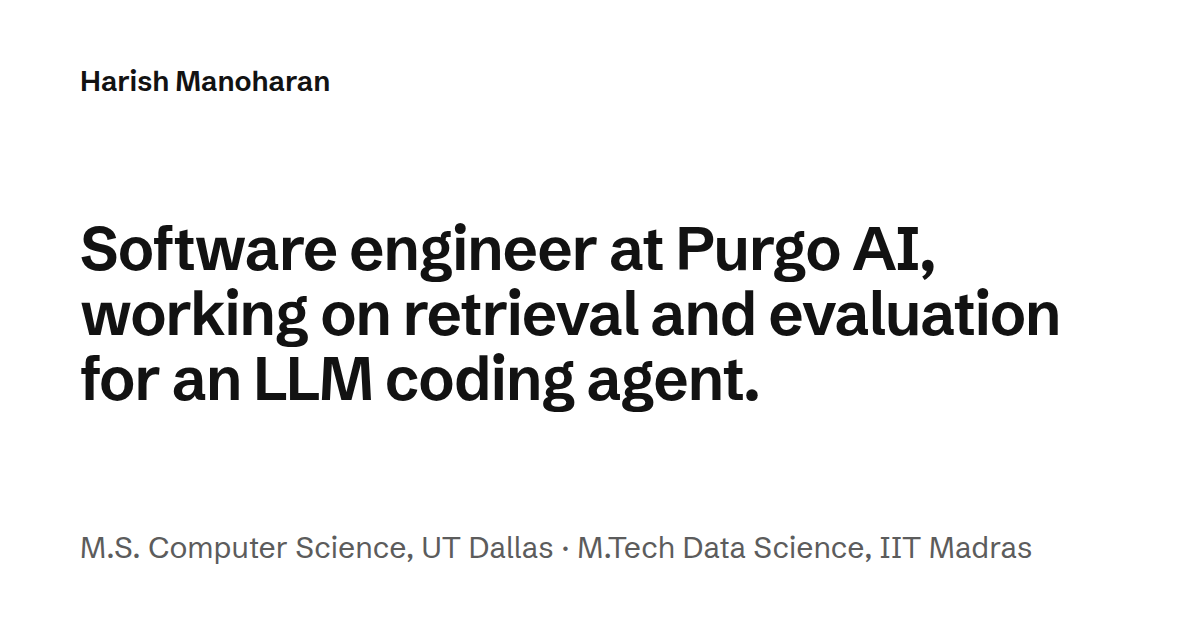
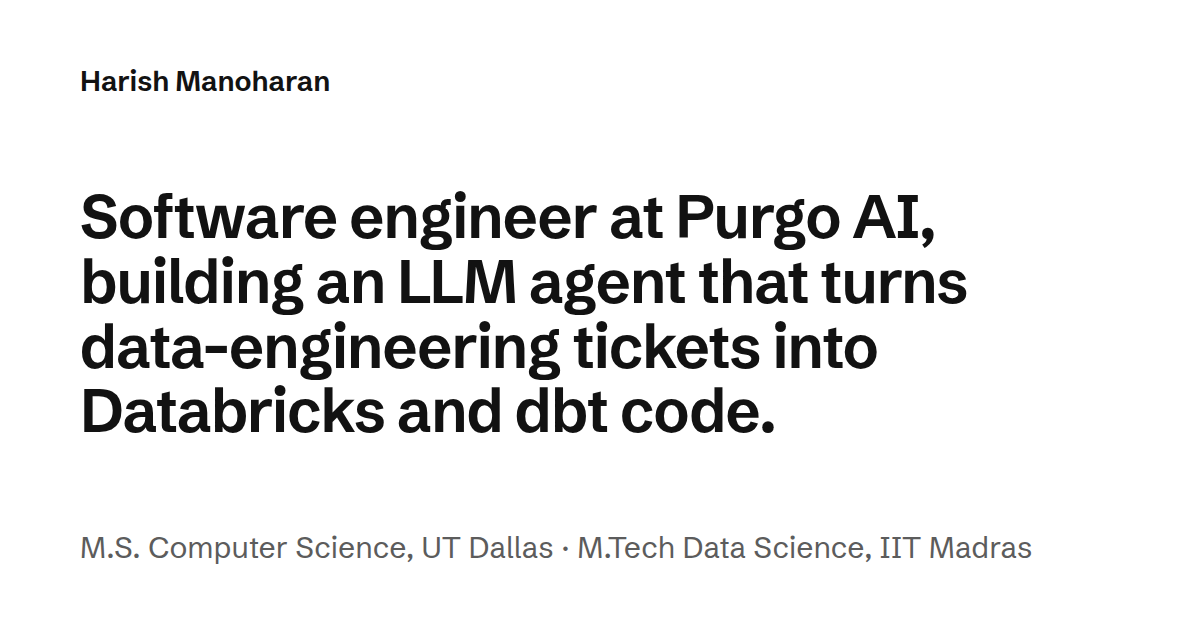
Broaden the home intro: work across the whole LangGraph agent, not just retrieval

Changed region(s): [[0.0617, 0.3016, 0.8942, 0.6937]]

diff --git a/tests/dist/home.test.ts b/tests/dist/home.test.ts
@@ -7,10 +7,11 @@ const main = () => text(doc.querySelector('main'));
 
 describe('home: head', () => {
   it('uses the positioning title and description', () => {
-    expect(text(doc.querySelector('title'))).toBe('Harish Manoharan: LLM retrieval and evaluation');
+    expect(text(doc.querySelector('title'))).toBe('Harish Manoharan: software engineer, LLM agents');
     expect(doc.querySelector('meta[name="description"]')?.getAttribute('content')).toBe(
-      'Software engineer at Purgo AI working on retrieval and evaluation for an LLM coding agent. MS CS, UT Dallas; IIT Madras.',
+      'Software engineer at Purgo AI, building an LLM agent that turns data-engineering tickets into Databricks and dbt code. M.S. CS, UT Dallas; IIT Madras.',
     );
+    expect(doc.querySelector('meta[name="description"]')?.getAttribute('content')?.length).toBeLessThanOrEqual(160);
   });
 
   it('has Person JSON-LD with employer, schools and profiles', () => {
@@ -34,11 +35,13 @@ describe('home: intro', () => {
     expect(doc.querySelectorAll('.site-head nav a').length).toBe(3);
   });
 
-  it('states role, employer and niche in a short lede', () => {
+  it('names the employer and the agent in a short lede, not one narrow sub-area', () => {
     const lede = text(doc.querySelector('.lede'));
     expect(lede).toContain('Software engineer at Purgo AI');
-    expect(lede).toContain('retrieval and evaluation');
-    expect(lede.length).toBeLessThanOrEqual(100);
+    expect(lede).toContain('LLM agent');
+    expect(lede).toContain('Databricks and dbt code');
+    expect(lede).not.toContain('retrieval and evaluation');
+    expect(lede.length).toBeLessThanOrEqual(125);
   });
 
   it('puts both schools, years and GPA in the ID line', () => {
@@ -53,9 +56,20 @@ describe('home: intro', () => {
     for (const s of ['June 2025', 'intern', 'June 2026', 'Digitus', 'PwC']) expect(bio).toContain(s);
   });
 
+  it('describes the whole pipeline and says the work spans it', () => {
+    const bio = text(doc.querySelector('.bio'));
+    expect(bio).toContain('LangGraph pipeline');
+    expect(bio).toContain('I work across that pipeline: the nodes themselves, their prompts, and the evals and benchmarks');
+  });
+
   it('keeps the spaces around the inline case-study link in the bio', () => {
-    // Guards against whitespace dropped next to the link ("I work onwhat it retrieves").
-    expect(text(doc.querySelector('.bio'))).toContain('I work on what it retrieves before it writes, and on the benchmarks');
+    // Guards against whitespace dropped next to the link ("a ticket,finds the tables it needs, drafts").
+    expect(text(doc.querySelector('.bio'))).toContain(
+      'it analyzes a ticket, finds the tables it needs, drafts a design, then writes and reviews the code.',
+    );
+    const link = doc.querySelector('.bio a');
+    expect(text(link)).toBe('finds the tables it needs');
+    expect(link?.getAttribute('href')).toBe('/work/agent-retrieval/');
   });
 
   it('links resume, GitHub, LinkedIn and email', () => {
@@ -76,7 +90,7 @@ describe('home: featured', () => {
   it('has a Featured heading and three cards with plain-language titles, in order', () => {
     expect(text(doc.querySelector('.featured h2.section-title'))).toBe('Featured');
     expect(cards().map((c) => text(c.querySelector('h3')))).toEqual([
-      'Retrieval for an LLM coding agent',
+      'An agent that writes data-engineering code',
       'Testing LLMs for regulated use',
       'a11y-stem',
     ]);
@@ -84,17 +98,19 @@ describe('home: featured', () => {
 
   it('gives each card a context line, a short paragraph and no result numbers', () => {
     expect(cards().map((c) => text(c.querySelector('.card-context')))).toEqual([
-      'Purgo AI · 2026',
+      'Purgo AI · 2025–26',
       'Purgo AI · 2025–26',
       'Personal project · in progress',
     ]);
     for (const c of cards()) expect(text(c.querySelector('.card-summary')).length).toBeGreaterThan(40);
-    expect(text(cards()[0].querySelector('.card-summary'))).toContain('about 70%');
+    const first = text(cards()[0].querySelector('.card-summary'));
+    expect(first).toContain('about 70%');
+    expect(first).toContain('I work across Purgo’s LangGraph agent');
   });
 
   it('links the first two cards to their write-ups', () => {
     for (const [i, slug, label] of [
-      [0, 'agent-retrieval', 'Read the case study'],
+      [0, 'agent-retrieval', 'Read the retrieval case study'],
       [1, 'llm-evaluation', 'Read the write-up'],
     ] as const) {
       expect(published(slug)).toBe(true);

diff --git a/tests/unit/components.test.ts b/tests/unit/components.test.ts
@@ -19,8 +19,8 @@ describe('FeaturedCard', () => {
   it('links the title and adds a link line when the write-up is published', async () => {
     const { doc } = await render(FeaturedCard, { item: featured[0], href: '/work/agent-retrieval/' });
     expect(doc.querySelector('h3 a')?.getAttribute('href')).toBe('/work/agent-retrieval/');
-    expect(doc.querySelector('.card-link a')?.textContent).toBe('Read the case study');
-    expect(doc.querySelector('.card-context')?.textContent?.replace(/\s+/g, ' ').trim()).toBe('Purgo AI · 2026');
+    expect(doc.querySelector('.card-link a')?.textContent).toBe('Read the retrieval case study');
+    expect(doc.querySelector('.card-context')?.textContent?.replace(/\s+/g, ' ').trim()).toBe('Purgo AI · 2025–26');
   });
 
   it('shows plain text and no link line without an href (the write-up is a draft)', async () => {

diff --git a/src/data/work.ts b/src/data/work.ts
@@ -253,12 +253,12 @@ export const featured: Featured[] = [
   {
     id: 'agent-retrieval',
     context: 'Purgo AI',
-    years: '2026',
-    title: 'Retrieval for an LLM coding agent',
+    years: '2025–26',
+    title: 'An agent that writes data-engineering code',
     summary:
-      'How Purgo’s agent finds the tables a ticket depends on. Following dbt lineage cut missed tables by about 70% on a benchmark built from real tickets.',
+      'I work across Purgo’s LangGraph agent: ticket analysis, retrieval, design, code generation and the checks that review its output. One retrieval change, following dbt lineage, cut missed tables by about 70%.',
     page: 'agent-retrieval',
-    linkLabel: 'Read the case study',
+    linkLabel: 'Read the retrieval case study',
   },
   {
     id: 'llm-evaluation',

diff --git a/src/data/site.ts b/src/data/site.ts
@@ -6,9 +6,9 @@ export const site = {
   linkedin: 'https://www.linkedin.com/in/harishm17/',
   resume: '/HarishManoharan.pdf',
   location: 'San Francisco Bay Area',
-  title: 'Harish Manoharan: LLM retrieval and evaluation',
+  title: 'Harish Manoharan: software engineer, LLM agents',
   description:
-    'Software engineer at Purgo AI working on retrieval and evaluation for an LLM coding agent. MS CS, UT Dallas; IIT Madras.',
+    'Software engineer at Purgo AI, building an LLM agent that turns data-engineering tickets into Databricks and dbt code. M.S. CS, UT Dallas; IIT Madras.',
   updated: { iso: '2026-10', label: 'October 2026' },
   og: { home: '/og/home-2026-10.png' },
 } as const;
